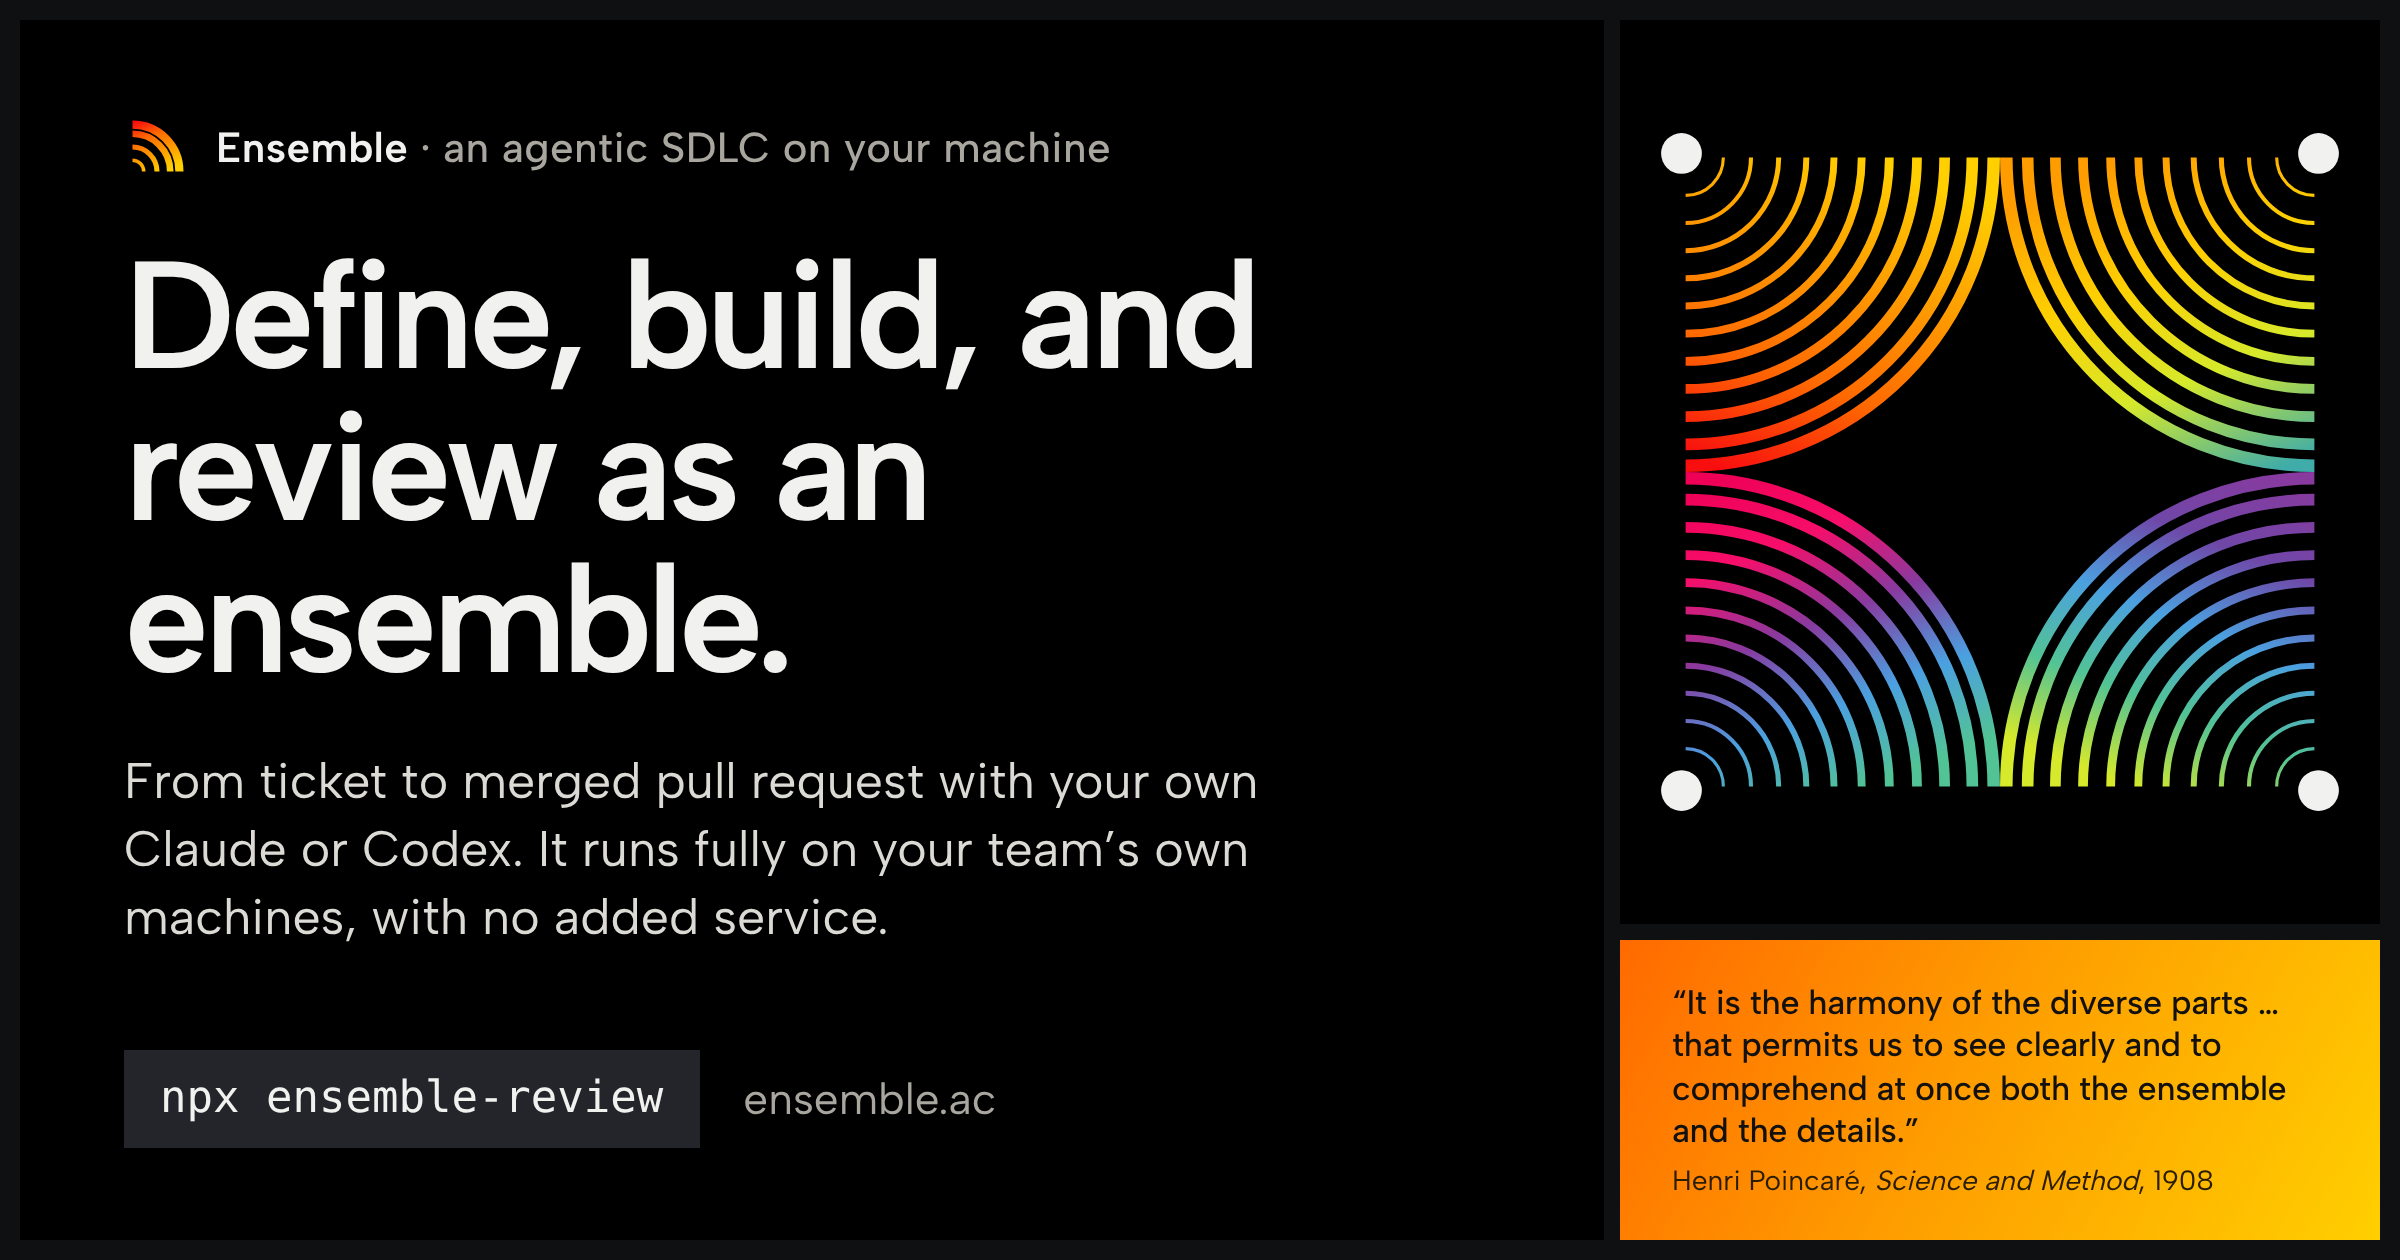
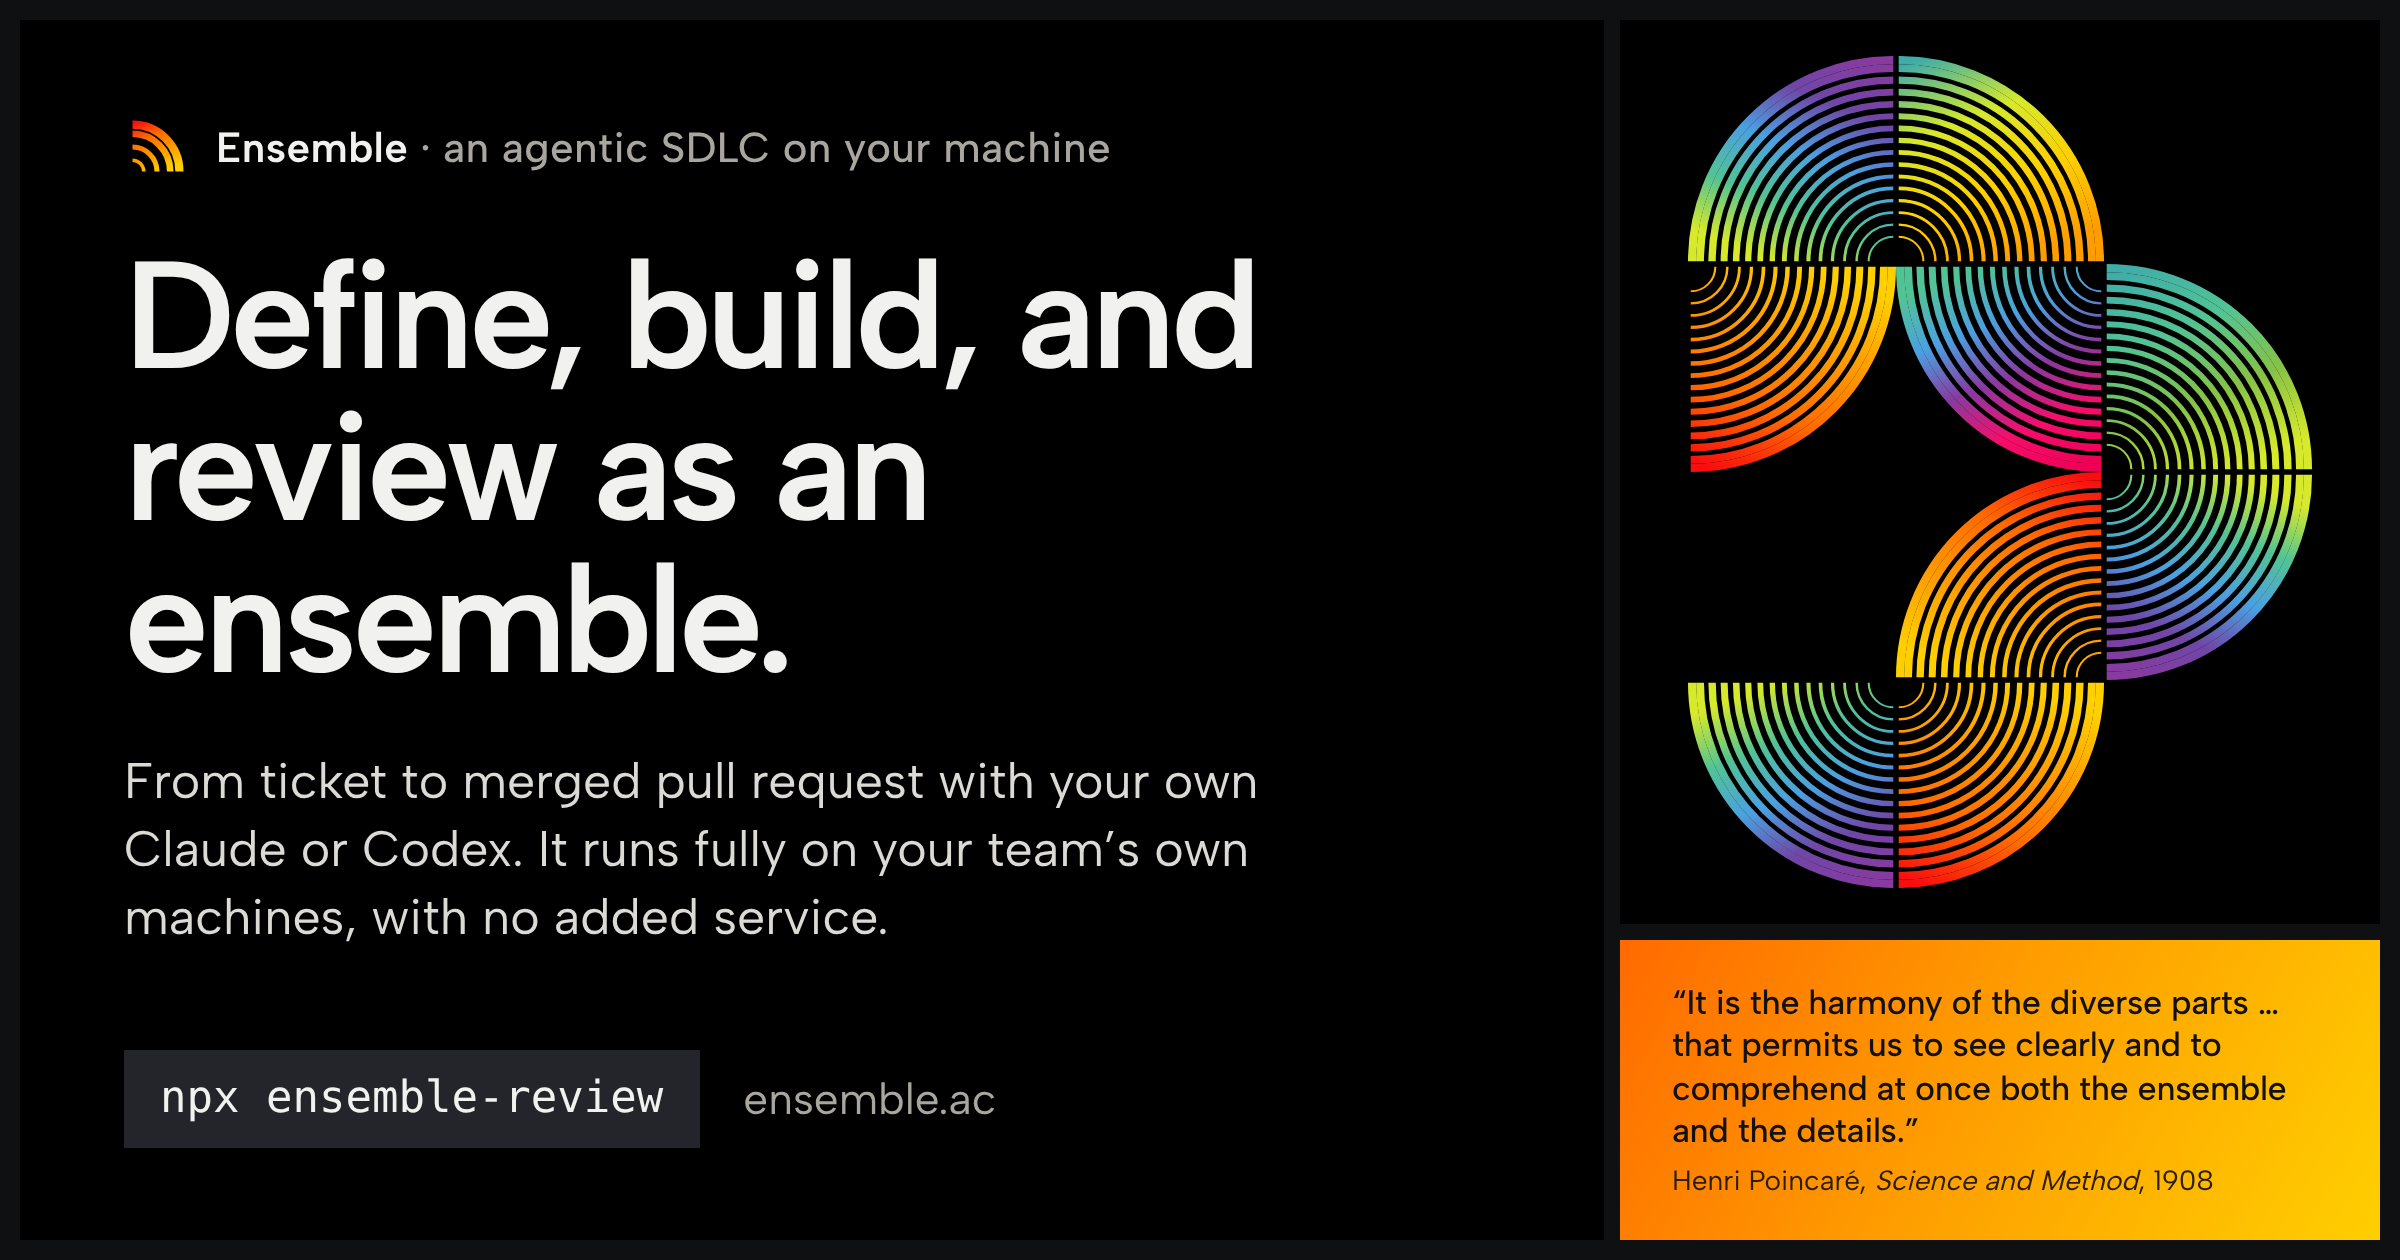
Landing: the crossing Chain is the hero's big picture again (#8)
Swaps the hero pictures back, keeping the Chain exactly as it is now (mirrored start, links crossing through the middle, no margin, light mixing): it fills the big tile edge to edge. The Quartet sits in the small tile beside Poincaré's line and still closes in on scroll. The share image shows the assembled Chain.

Claude-Session: https://claude.ai/code/session_01Y7zDQPGDUWXXDdJKrAgGTD

Changed region(s): [[0.6875, 0.031, 1.0, 0.7119]]

diff --git a/apps/landing/src/components/board/Hero.tsx b/apps/landing/src/components/board/Hero.tsx
@@ -3,10 +3,11 @@ import { INSTALL_COMMAND, SITE_NAME } from '../../lib/site';
 import { CopyCommand } from './CopyCommand';
 
 // ---------------------------------------------------------------------------
-// The hero: the claim, the command, and the site's lead picture, the QUARTET
-// (components/arcs): four quarters facing one centre that close in as the reader
-// scrolls, an ensemble as a conversation, which is what a review is. Under the claim,
-// the CHAIN (quarters linked end to end) beside Poincaré's line on the ensemble and the details.
+// The hero: the claim, the command, and the site's big picture, the CHAIN
+// (components/arcs): quarters linked end to end whose links start mirrored across
+// the tile and cross through each other into place as the reader scrolls. Under the
+// claim, the QUARTET (four quarters facing one centre, closing in) beside Poincaré's
+// line on the ensemble and the details. Both are lead pictures (always drawn).
 //
 // ⚠ "Fully local, no added service" is the claim, and it is exact: the app runs on each
 // person's machine and talks only to GitHub, their tracker and their own AI provider.
@@ -30,7 +31,7 @@ export function Hero(): JSX.Element {
         </div>
       </div>
       <div className="tile art p1">
-        <Chain lead label="A chain of banded quarter-circles linked end to end, each in its own run of colour" />
+        <Quartet lead label="Four banded quarter-circles in four colours, facing one centre" />
       </div>
       <figure className="tile motto">
         <blockquote>
@@ -49,7 +50,7 @@ export function Hero(): JSX.Element {
         </figcaption>
       </figure>
       <div className="tile art hand">
-        <Quartet lead label="Four banded quarter-circles in four colours, facing one centre" />
+        <Chain lead label="A chain of banded quarter-circles linked end to end, each in its own run of colour" />
       </div>
     </section>
   );

diff --git a/apps/landing/src/components/arcs/pieces.tsx b/apps/landing/src/components/arcs/pieces.tsx
@@ -6,13 +6,13 @@ import type { Corner, Quarter, RunName } from './geometry';
 // The compositions. Every picture on the site is one of these, drawn from the same
 // banded quarter (geometry.ts): no photographs, no product screenshots.
 //
-//   Quartet    the hero's lead picture: four equal quarters facing one centre,
-//              "four sensible people conversing". Its quarters start apart and
+//   Quartet    four equal quarters facing one centre, "four sensible people
+//              conversing" (the hero's small tile). Its quarters start apart and
 //              close in as the reader scrolls down.
 //   Chain      quarters linked end to end, each a different voice, whose bands run
-//              on from link to link (the small tile beside Poincaré's line). Also a
-//              lead picture: its links start mirrored across the tile and cross
-//              through each other into place as the reader scrolls down.
+//              on from link to link (the hero's big picture). Its links start
+//              mirrored across the tile and cross through each other into place as
+//              the reader scrolls down.
 //   Orchestra  the seating plan from above: rows of chairs in sections around
 //              the conductor
 //   Combo      a jazz band: four players of different weight, facing in, their
@@ -42,7 +42,7 @@ export function Chain({ className, label, lead }: PieceProps): JSX.Element {
   );
 }
 
-// The hero's lead picture: the margin keeps the apart state inside the tile.
+// The margin keeps the apart state inside the tile.
 const QUARTET = quartetQuarters(22);
 
 export function Quartet({ className, label, lead }: PieceProps): JSX.Element {

diff --git a/apps/landing/src/pages/home.css b/apps/landing/src/pages/home.css
@@ -5,7 +5,7 @@
 
    CLASSES
      shared     .k (small label) · .cmd (copy button + code) · .section.chapter
-     hero       .hero > .say (.kick, h1, .lead, .cmd) · .art.p1 (Chain) · figure.motto · .art.hand (Quartet)
+     hero       .hero > .say (.kick, h1, .lead, .cmd) · .art.p1 (Quartet) · figure.motto · .art.hand (Chain)
      flow       .board.flow > ol.flow-steps > li.tile (.flow-n, h3, p) · p.flow-loop · p.flow-more
      ensemble   .board.ensemble > .tile.circle (svg.circle-svg) · .ens-points > .tile (h3, p) · p.ens-more
      bots       .board.bots > .tile (h3, p, p.more)
@@ -135,7 +135,8 @@
   grid-row: 1 / 3;
 }
 .lb.home .hero .hand {
-  padding: clamp(20px, 3vw, 44px);
+  /* none: the Chain fills its tile edge to edge, as it does in every tile it sits in */
+  padding: 0;
 }
 
 /* ---- works with ---------------------------------------------------------- */
@@ -458,7 +459,7 @@
     grid-row: auto;
   }
   .lb.home .hero .hand {
-    aspect-ratio: 1;
+    aspect-ratio: 3 / 4;
   }
   .lb.home .why4 > .tile {
     grid-column: span 6;

diff --git a/apps/landing/src/components/arcs/geometry.ts b/apps/landing/src/components/arcs/geometry.ts
@@ -287,7 +287,7 @@ export function chainQuarters(
   };
 }
 
-/** The site's chain (the hero's small tile): it zigzags down a portrait box of
+/** The site's chain (the hero's big picture and the share image): it zigzags down a portrait box of
  *  3 × 4 radii, and its links cross through each other on their way in. A chain that stacks half-discs on one centre line is avoided on purpose:
  *  that is the reference artwork's own figure. */
 export const SITE_CHAIN = { steps: 'BABBABBA', first: 'h', margin: 0, cross: true } as const;

diff --git a/apps/landing/README.md b/apps/landing/README.md
@@ -18,7 +18,7 @@ plus the three legal ones and the docs. (2026-11 restructure: `/teams` 301s to `
 
 | Route | Page | Focus |
 |---|---|---|
-| `/` | `pages/Home.tsx` | "Define, build, and review as an ensemble": the hero (the Quartet, and the Chain beside Poincaré's line), the build flow (`HomeSections.tsx` HowItWorks), review as an ensemble (the circle), dependency updates, and the close |
+| `/` | `pages/Home.tsx` | "Define, build, and review as an ensemble": the hero (the Chain, and the Quartet beside Poincaré's line), the build flow (`HomeSections.tsx` HowItWorks), review as an ensemble (the circle), dependency updates, and the close |
 | `/build` | `pages/Build.tsx` | How a ticket becomes a pull request, by hand and automatically; the story check; the Ticket design example; verifying the results |
 | `/ensemble-review` | `pages/EnsembleReview.tsx` | How each teammate's local agent joins one review with no server between them — GitHub's status lines, Claude + Codex, thread judgements, the licence above the free size |
 | `/automation` | `pages/Automation.tsx` | Everything the dependency automation does, and how it claims each pull request once per team |
